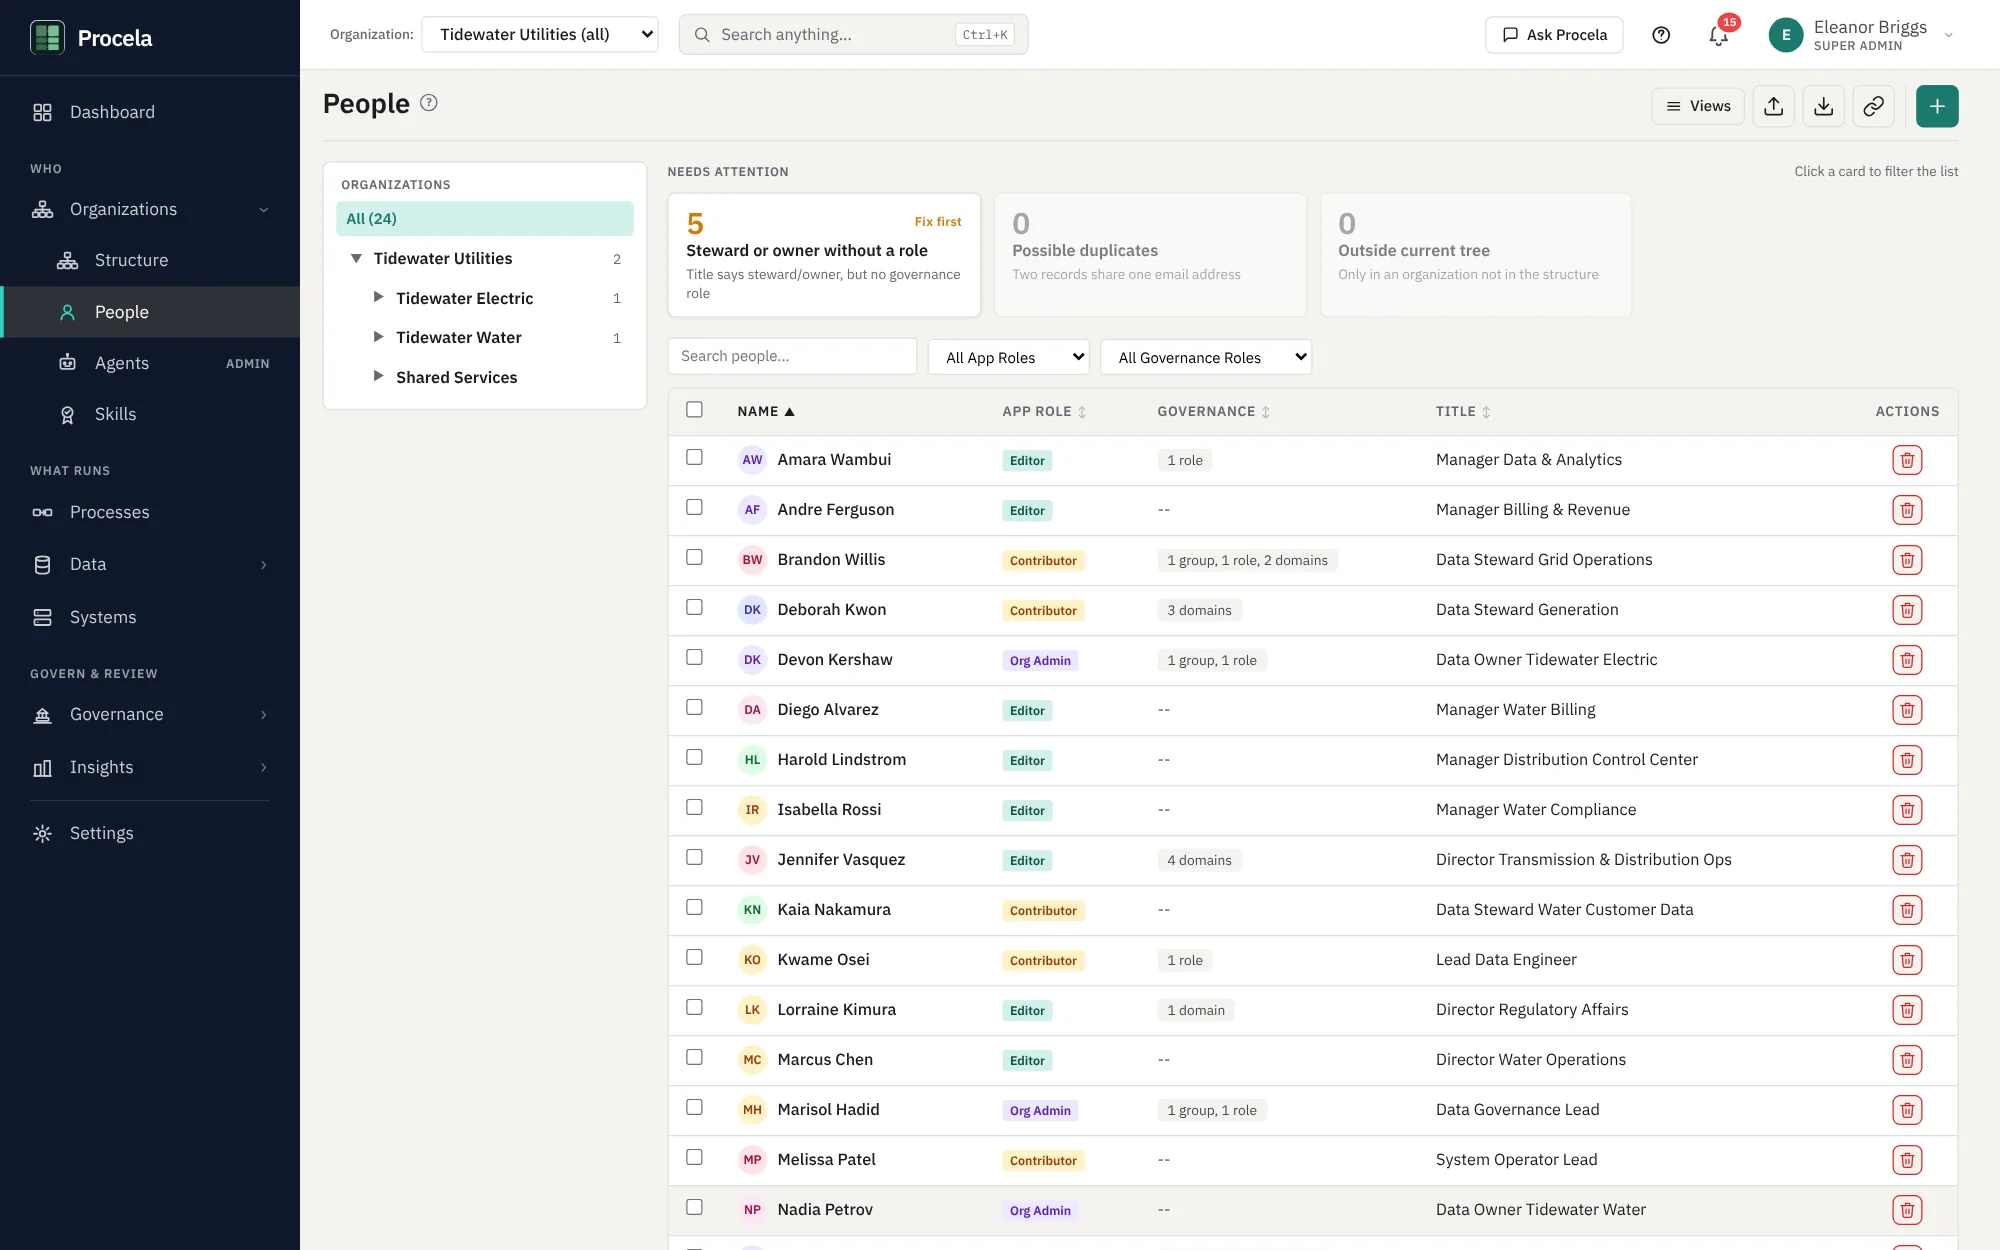
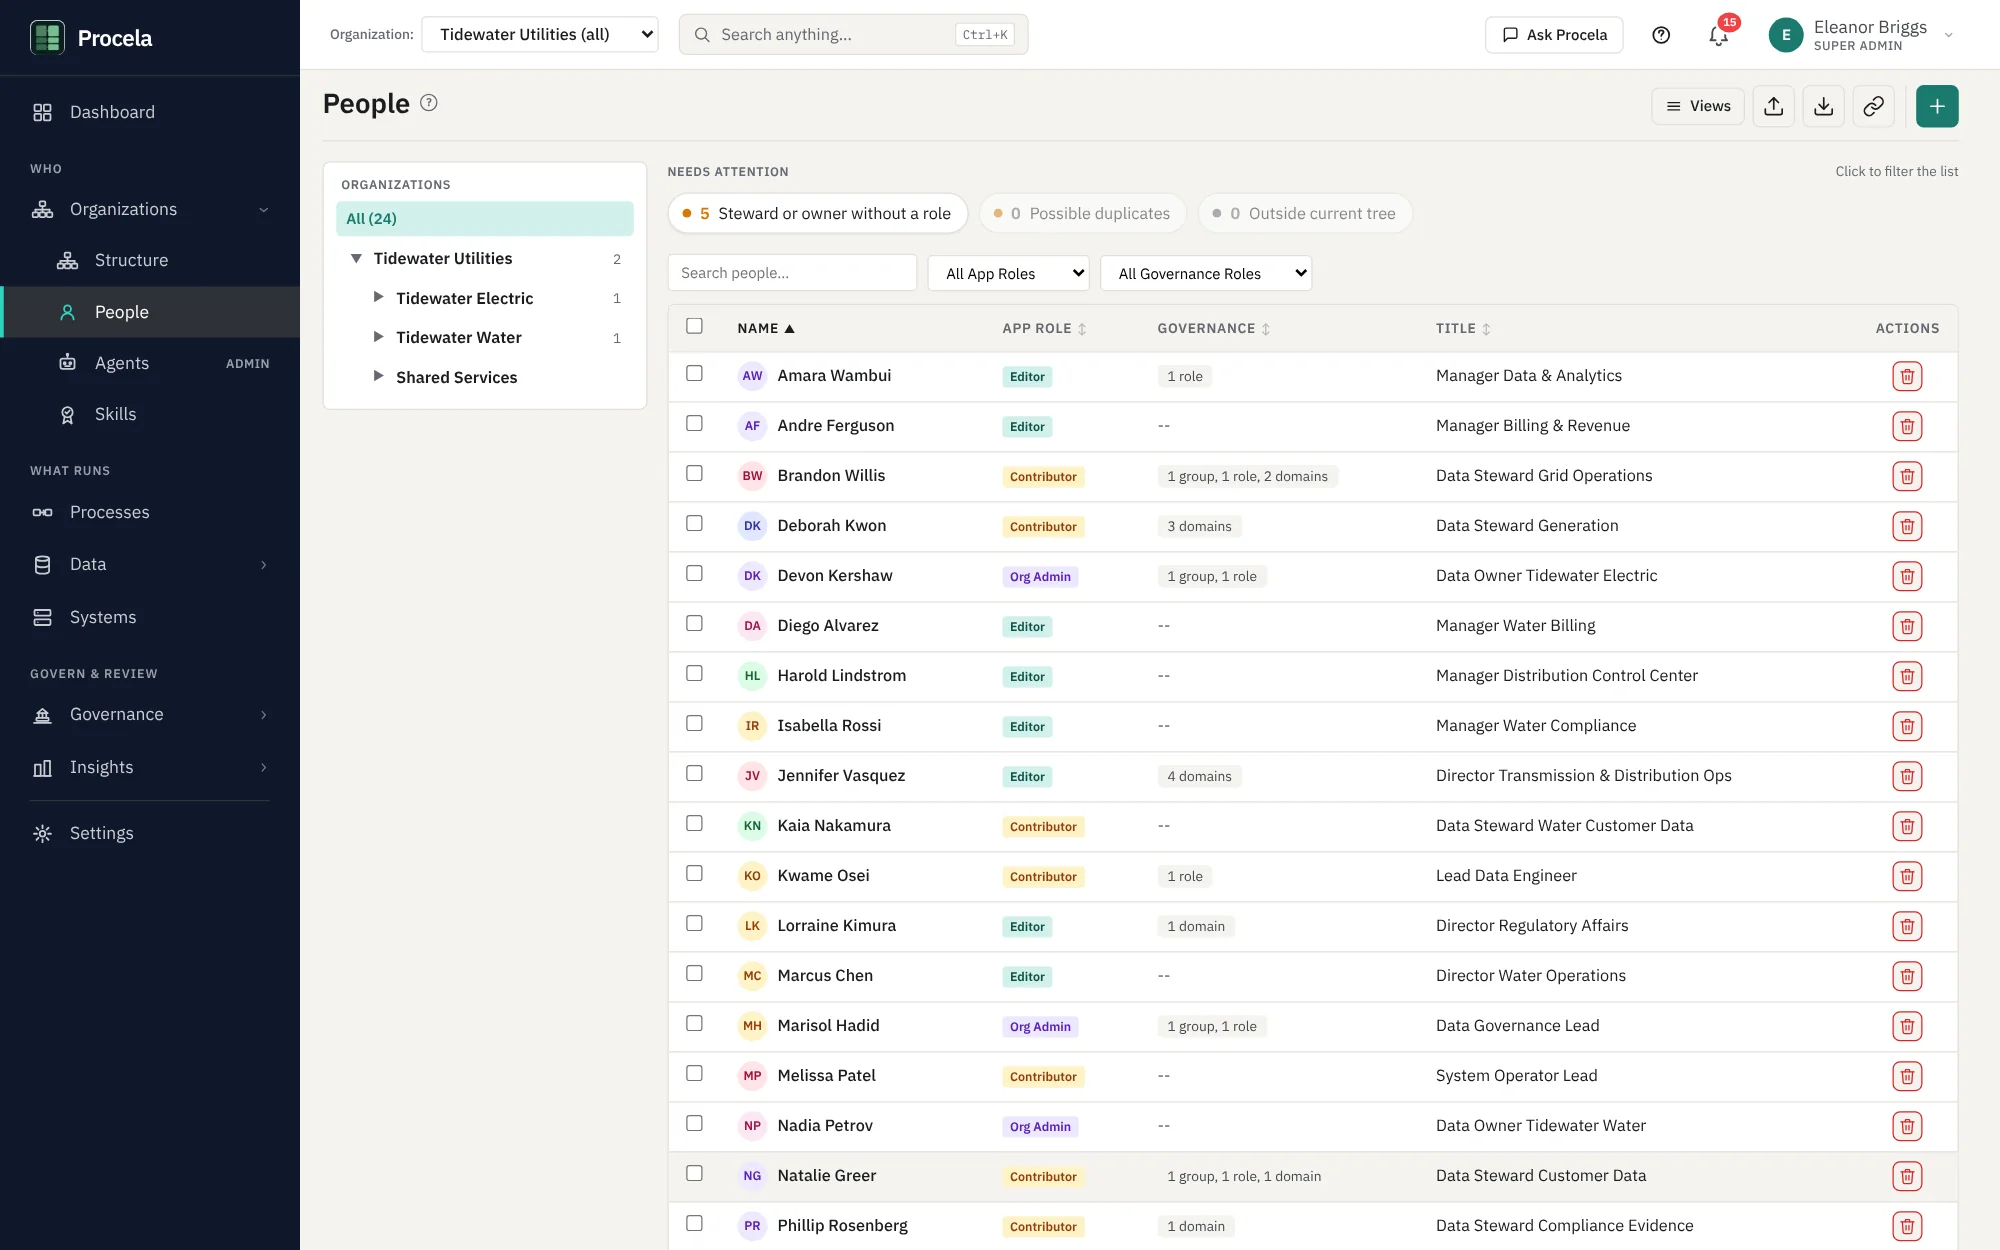
Refresh app screenshots to latest build + bump cache version
Recapture the product screens against the current build, which reworked the
list pages: chip-style "needs attention" strips (agents, data assets,
domains, people), floating search/filter toolbars, denser 40px Data Assets
rows with the Map/Link + certification columns, and tidier audit search.

Bump SHOTS_VERSION to 20261105 so the new captures bust the browser/CDN/
next-image caches and show immediately.

Claude-Session: https://claude.ai/code/session_01KJa1GsMMHLvb8vFejFkGtX

diff --git a/lib/screenshots.ts b/lib/screenshots.ts
@@ -7,7 +7,7 @@
 // so the current capture shows up everywhere with no hard-refresh needed.
 //
 // BUMP THIS whenever the screenshots are refreshed (use the capture date).
-export const SHOTS_VERSION = "20261031";
+export const SHOTS_VERSION = "20261105";
 
 /** Append the capture version to a /screenshots/ path for cache-busting.
  *  Leaves non-screenshot paths untouched. */
